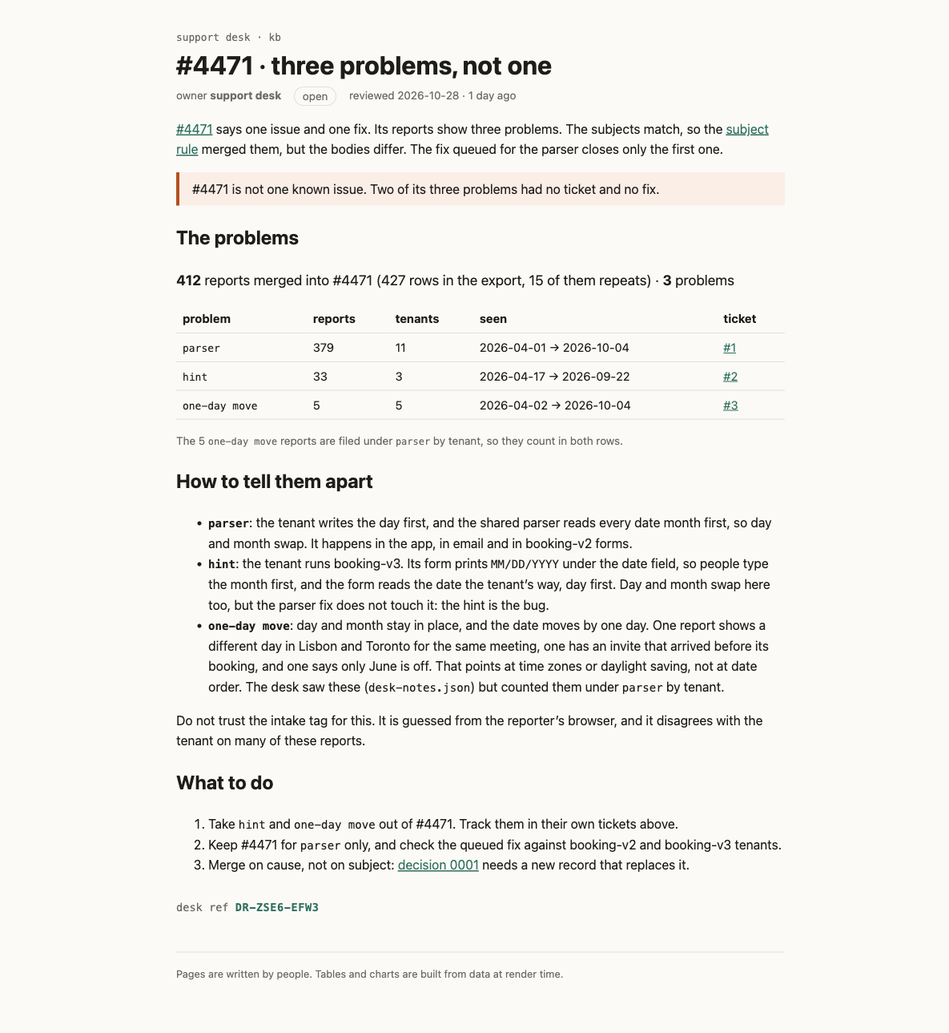
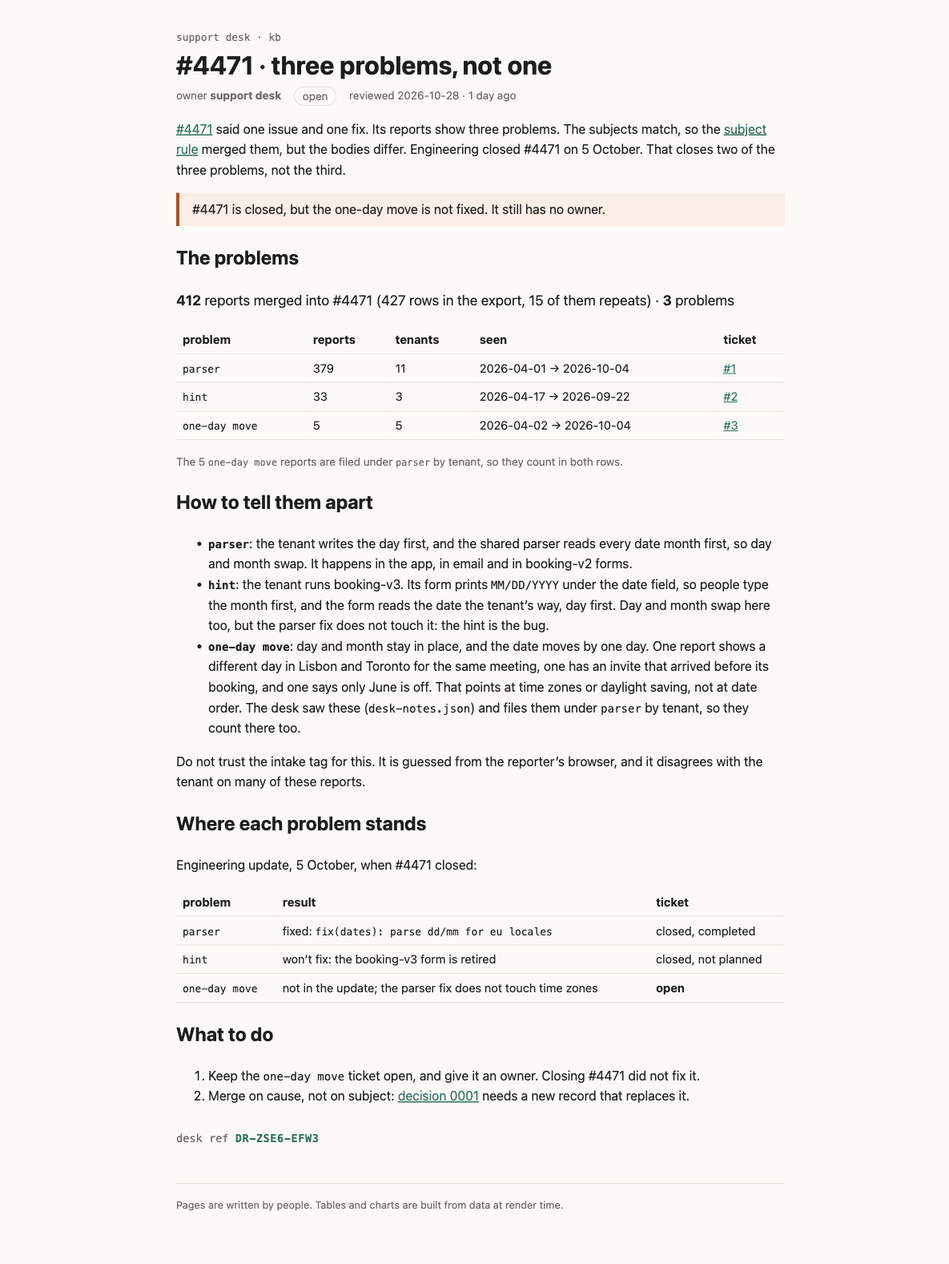
Record the desk update: parser fixed, hint won't fix, one-day move still open

Changed region(s): [[0.1873, 0.031, 0.8118, 0.8999], [0.1873, 0.931, 0.5932, 0.962]]

diff --git a/rendered/problems.html b/rendered/problems.html
@@ -6,11 +6,11 @@
 		<link href="../../../_app/immutable/chunks/B2Ul7l_u.js" rel="modulepreload">
 		<link href="../../../_app/immutable/chunks/BCPXOG7W.js" rel="modulepreload">
 		<link href="../../../_app/immutable/chunks/Dh1V97Jm.js" rel="modulepreload">
-		<link href="../../../_app/immutable/entry/app.pCj8AxUr.js" rel="modulepreload">
+		<link href="../../../_app/immutable/entry/app.Cf97Lyos.js" rel="modulepreload">
 		<link href="../../../_app/immutable/nodes/0.C9KfiiPz.js" rel="modulepreload">
 		<link href="../../../_app/immutable/chunks/DK3Fl9T5.js" rel="modulepreload">
-		<link href="../../../_app/immutable/nodes/5.DjZ_4Lt1.js" rel="modulepreload">
-		<link href="../../../_app/immutable/chunks/Dh-4Soy4.js" rel="modulepreload">
+		<link href="../../../_app/immutable/nodes/5.BNCA9inu.js" rel="modulepreload">
+		<link href="../../../_app/immutable/chunks/CG9Gs7nx.js" rel="modulepreload">
 		<link href="../../../_app/immutable/chunks/DZiXShyB.js" rel="modulepreload">
 		<link href="../../../_app/immutable/chunks/CVBzP17p.js" rel="modulepreload">
 		<link href="../../../_app/immutable/chunks/BIy4WKJS.js" rel="modulepreload">
@@ -18,30 +18,30 @@
 		<link href="../../../_app/immutable/assets/runbook.COyw0cbZ.css" rel="stylesheet">
 		<link href="../../../_app/immutable/assets/Callout.AbLv9dM_.css" rel="stylesheet">
 		<link href="../../../_app/immutable/assets/_page.l10rmzXo.css" rel="stylesheet"></head>
-  <body><div style="display: contents"><!--[--><!--[--><!--[0--><!--[--><!--[--><!--[-1--><!--[--><div class="kb svelte-e2jw2j"><header><a class="crumb svelte-e2jw2j" href="/kb">support desk · kb</a> <h1 class="svelte-e2jw2j">#4471 · three problems, not one</h1> <p class="meta svelte-e2jw2j"><span>owner <b>support desk</b></span> <span class="status open svelte-e2jw2j">open</span> <span class="svelte-e2jw2j">reviewed 2026-10-28 · 1 day ago</span></p></header> <!--[-1--><!--]--> <main><p><a href="/kb/incidents/4471">#4471</a> says one issue and one fix. Its reports show three problems. The
+  <body><div style="display: contents"><!--[--><!--[--><!--[0--><!--[--><!--[--><!--[-1--><!--[--><div class="kb svelte-e2jw2j"><header><a class="crumb svelte-e2jw2j" href="/kb">support desk · kb</a> <h1 class="svelte-e2jw2j">#4471 · three problems, not one</h1> <p class="meta svelte-e2jw2j"><span>owner <b>support desk</b></span> <span class="status open svelte-e2jw2j">open</span> <span class="svelte-e2jw2j">reviewed 2026-10-28 · 1 day ago</span></p></header> <!--[-1--><!--]--> <main><p><a href="/kb/incidents/4471">#4471</a> said one issue and one fix. Its reports show three problems. The
 subjects match, so the <a href="/kb/triage/dedupe">subject rule</a> merged them, but the bodies differ.
-The fix queued for the parser closes only the first one.</p> <aside class="warn svelte-17bri61"><!---->#4471 is not one known issue. Two of its three problems had no ticket and no fix.<!----></aside><!----> <h2>The problems</h2> <p class="sum svelte-1op6c6"><strong>412</strong> reports merged into #4471 (427 rows in the export, 15 of them repeats) · <strong>3</strong> problems</p> <table><thead><tr><th>problem</th><th>reports</th><th>tenants</th><th>seen</th><th>ticket</th></tr></thead><tbody><!--[--><tr><td><code>parser</code></td><td>379</td><td>11</td><td>2026-04-01 → 2026-10-04</td><td><!--[0--><a href="https://github.com/hd4ng/support-kb-4471/issues/1">#1</a><!--]--></td></tr><tr><td><code>hint</code></td><td>33</td><td>3</td><td>2026-04-17 → 2026-09-22</td><td><!--[0--><a href="https://github.com/hd4ng/support-kb-4471/issues/2">#2</a><!--]--></td></tr><tr><td><code>one-day move</code></td><td>5</td><td>5</td><td>2026-04-02 → 2026-10-04</td><td><!--[0--><a href="https://github.com/hd4ng/support-kb-4471/issues/3">#3</a><!--]--></td></tr><!--]--></tbody></table> <!--[--><!--[--><!--[-1--><!--]--><!--]--><!--[--><!--]--><!--[--><!--[0--><p class="note svelte-1op6c6">The 5 <code>one-day move</code> reports are filed under <code>parser</code> by tenant, so they count in both rows.</p><!--]--><!--]--><!--]--><!----> <h2>How to tell them apart</h2> <ul><li><strong><code>parser</code></strong>: the tenant writes the day first, and the shared parser reads every date month
+Engineering closed #4471 on 5 October. That closes two of the three problems, not the third.</p> <aside class="warn svelte-17bri61"><!---->#4471 is closed, but the one-day move is not fixed. It still has no owner.<!----></aside><!----> <h2>The problems</h2> <p class="sum svelte-1op6c6"><strong>412</strong> reports merged into #4471 (427 rows in the export, 15 of them repeats) · <strong>3</strong> problems</p> <table><thead><tr><th>problem</th><th>reports</th><th>tenants</th><th>seen</th><th>ticket</th></tr></thead><tbody><!--[--><tr><td><code>parser</code></td><td>379</td><td>11</td><td>2026-04-01 → 2026-10-04</td><td><!--[0--><a href="https://github.com/hd4ng/support-kb-4471/issues/1">#1</a><!--]--></td></tr><tr><td><code>hint</code></td><td>33</td><td>3</td><td>2026-04-17 → 2026-09-22</td><td><!--[0--><a href="https://github.com/hd4ng/support-kb-4471/issues/2">#2</a><!--]--></td></tr><tr><td><code>one-day move</code></td><td>5</td><td>5</td><td>2026-04-02 → 2026-10-04</td><td><!--[0--><a href="https://github.com/hd4ng/support-kb-4471/issues/3">#3</a><!--]--></td></tr><!--]--></tbody></table> <!--[--><!--[--><!--[-1--><!--]--><!--]--><!--[--><!--]--><!--[--><!--[0--><p class="note svelte-1op6c6">The 5 <code>one-day move</code> reports are filed under <code>parser</code> by tenant, so they count in both rows.</p><!--]--><!--]--><!--]--><!----> <h2>How to tell them apart</h2> <ul><li><strong><code>parser</code></strong>: the tenant writes the day first, and the shared parser reads every date month
 first, so day and month swap. It happens in the app, in email and in booking-v2 forms.</li> <li><strong><code>hint</code></strong>: the tenant runs booking-v3. Its form prints <code>MM/DD/YYYY</code> under the date field, so
 people type the month first, and the form reads the date the tenant’s way, day first. Day and
 month swap here too, but the parser fix does not touch it: the hint is the bug.</li> <li><strong><code>one-day move</code></strong>: day and month stay in place, and the date moves by one day. One report
 shows a different day in Lisbon and Toronto for the same meeting, one has an invite that
 arrived before its booking, and one says only June is off. That points at time zones or
 daylight saving, not at date order. The desk saw these
-(<code>desk-notes.json</code>) but counted them under <code>parser</code> by tenant.</li></ul> <p>Do not trust the intake tag for this. It is guessed from the reporter’s browser, and
-it disagrees with the tenant on many of these reports.</p> <h2>What to do</h2> <ol><li>Take <code>hint</code> and <code>one-day move</code> out of #4471. Track them in their own tickets above.</li> <li>Keep #4471 for <code>parser</code> only, and check the queued fix against booking-v2 and booking-v3 tenants.</li> <li>Merge on cause, not on subject: <a href="/kb/decisions/0001-dedupe-by-subject">decision 0001</a> needs a new record that replaces it.</li></ol> <!--[0--><p class="stamp svelte-1280m42">desk ref <b class="svelte-1280m42">DR-ZSE6-EFW3</b></p><!--]--><!----><!----></main> <footer class="svelte-e2jw2j">Pages are written by people. Tables and charts are built from data at render time.</footer></div><!--]--><!--]--><!--]--><!----><!--]--><!--]--><!--]--><!----> <!--[-1--><!--]--><!--]-->
+(<code>desk-notes.json</code>) and files them under <code>parser</code> by tenant, so they count there too.</li></ul> <p>Do not trust the intake tag for this. It is guessed from the reporter’s browser, and
+it disagrees with the tenant on many of these reports.</p> <h2>Where each problem stands</h2> <p>Engineering update, 5 October, when #4471 closed:</p> <table><thead><tr><th>problem</th><th>result</th><th>ticket</th></tr></thead><tbody><tr><td><code>parser</code></td><td>fixed: <code>fix(dates): parse dd/mm for eu locales</code></td><td>closed, completed</td></tr><tr><td><code>hint</code></td><td>won’t fix: the booking-v3 form is retired</td><td>closed, not planned</td></tr><tr><td><code>one-day move</code></td><td>not in the update; the parser fix does not touch time zones</td><td><strong>open</strong></td></tr></tbody></table> <h2>What to do</h2> <ol><li>Keep the <code>one-day move</code> ticket open, and give it an owner. Closing #4471 did not fix it.</li> <li>Merge on cause, not on subject: <a href="/kb/decisions/0001-dedupe-by-subject">decision 0001</a> needs a new record that replaces it.</li></ol> <!--[0--><p class="stamp svelte-1280m42">desk ref <b class="svelte-1280m42">DR-ZSE6-EFW3</b></p><!--]--><!----><!----></main> <footer class="svelte-e2jw2j">Pages are written by people. Tables and charts are built from data at render time.</footer></div><!--]--><!--]--><!--]--><!----><!--]--><!--]--><!--]--><!----> <!--[-1--><!--]--><!--]-->
 			
 			<script>
 				{
-					__sveltekit_1bzk7jq = {
+					__sveltekit_c6fpbu = {
 						base: new URL("../../..", location).pathname.slice(0, -1),
-						version: "1793239045053"
+						version: "1793239122857"
 					};
 
 					const element = document.currentScript.parentElement;
 
 					import("../../../_app/immutable/entry/start.CH5w6lId.js").then(async (kit) => {
-						kit.init(__sveltekit_1bzk7jq);
-						const app = await import("../../../_app/immutable/entry/app.pCj8AxUr.js");
+						kit.init(__sveltekit_c6fpbu);
+						const app = await import("../../../_app/immutable/entry/app.Cf97Lyos.js");
 						kit.start(app, element, {
 							node_ids: [0, 5],
 							data: [null,null],

diff --git a/rendered/site/kb/incidents/4471/problems.html b/rendered/site/kb/incidents/4471/problems.html
@@ -6,11 +6,11 @@
 		<link href="../../../_app/immutable/chunks/B2Ul7l_u.js" rel="modulepreload">
 		<link href="../../../_app/immutable/chunks/BCPXOG7W.js" rel="modulepreload">
 		<link href="../../../_app/immutable/chunks/Dh1V97Jm.js" rel="modulepreload">
-		<link href="../../../_app/immutable/entry/app.pCj8AxUr.js" rel="modulepreload">
+		<link href="../../../_app/immutable/entry/app.Cf97Lyos.js" rel="modulepreload">
 		<link href="../../../_app/immutable/nodes/0.C9KfiiPz.js" rel="modulepreload">
 		<link href="../../../_app/immutable/chunks/DK3Fl9T5.js" rel="modulepreload">
-		<link href="../../../_app/immutable/nodes/5.DjZ_4Lt1.js" rel="modulepreload">
-		<link href="../../../_app/immutable/chunks/Dh-4Soy4.js" rel="modulepreload">
+		<link href="../../../_app/immutable/nodes/5.BNCA9inu.js" rel="modulepreload">
+		<link href="../../../_app/immutable/chunks/CG9Gs7nx.js" rel="modulepreload">
 		<link href="../../../_app/immutable/chunks/DZiXShyB.js" rel="modulepreload">
 		<link href="../../../_app/immutable/chunks/CVBzP17p.js" rel="modulepreload">
 		<link href="../../../_app/immutable/chunks/BIy4WKJS.js" rel="modulepreload">
@@ -18,30 +18,30 @@
 		<link href="../../../_app/immutable/assets/runbook.COyw0cbZ.css" rel="stylesheet">
 		<link href="../../../_app/immutable/assets/Callout.AbLv9dM_.css" rel="stylesheet">
 		<link href="../../../_app/immutable/assets/_page.l10rmzXo.css" rel="stylesheet"></head>
-  <body><div style="display: contents"><!--[--><!--[--><!--[0--><!--[--><!--[--><!--[-1--><!--[--><div class="kb svelte-e2jw2j"><header><a class="crumb svelte-e2jw2j" href="/kb">support desk · kb</a> <h1 class="svelte-e2jw2j">#4471 · three problems, not one</h1> <p class="meta svelte-e2jw2j"><span>owner <b>support desk</b></span> <span class="status open svelte-e2jw2j">open</span> <span class="svelte-e2jw2j">reviewed 2026-10-28 · 1 day ago</span></p></header> <!--[-1--><!--]--> <main><p><a href="/kb/incidents/4471">#4471</a> says one issue and one fix. Its reports show three problems. The
+  <body><div style="display: contents"><!--[--><!--[--><!--[0--><!--[--><!--[--><!--[-1--><!--[--><div class="kb svelte-e2jw2j"><header><a class="crumb svelte-e2jw2j" href="/kb">support desk · kb</a> <h1 class="svelte-e2jw2j">#4471 · three problems, not one</h1> <p class="meta svelte-e2jw2j"><span>owner <b>support desk</b></span> <span class="status open svelte-e2jw2j">open</span> <span class="svelte-e2jw2j">reviewed 2026-10-28 · 1 day ago</span></p></header> <!--[-1--><!--]--> <main><p><a href="/kb/incidents/4471">#4471</a> said one issue and one fix. Its reports show three problems. The
 subjects match, so the <a href="/kb/triage/dedupe">subject rule</a> merged them, but the bodies differ.
-The fix queued for the parser closes only the first one.</p> <aside class="warn svelte-17bri61"><!---->#4471 is not one known issue. Two of its three problems had no ticket and no fix.<!----></aside><!----> <h2>The problems</h2> <p class="sum svelte-1op6c6"><strong>412</strong> reports merged into #4471 (427 rows in the export, 15 of them repeats) · <strong>3</strong> problems</p> <table><thead><tr><th>problem</th><th>reports</th><th>tenants</th><th>seen</th><th>ticket</th></tr></thead><tbody><!--[--><tr><td><code>parser</code></td><td>379</td><td>11</td><td>2026-04-01 → 2026-10-04</td><td><!--[0--><a href="https://github.com/hd4ng/support-kb-4471/issues/1">#1</a><!--]--></td></tr><tr><td><code>hint</code></td><td>33</td><td>3</td><td>2026-04-17 → 2026-09-22</td><td><!--[0--><a href="https://github.com/hd4ng/support-kb-4471/issues/2">#2</a><!--]--></td></tr><tr><td><code>one-day move</code></td><td>5</td><td>5</td><td>2026-04-02 → 2026-10-04</td><td><!--[0--><a href="https://github.com/hd4ng/support-kb-4471/issues/3">#3</a><!--]--></td></tr><!--]--></tbody></table> <!--[--><!--[--><!--[-1--><!--]--><!--]--><!--[--><!--]--><!--[--><!--[0--><p class="note svelte-1op6c6">The 5 <code>one-day move</code> reports are filed under <code>parser</code> by tenant, so they count in both rows.</p><!--]--><!--]--><!--]--><!----> <h2>How to tell them apart</h2> <ul><li><strong><code>parser</code></strong>: the tenant writes the day first, and the shared parser reads every date month
+Engineering closed #4471 on 5 October. That closes two of the three problems, not the third.</p> <aside class="warn svelte-17bri61"><!---->#4471 is closed, but the one-day move is not fixed. It still has no owner.<!----></aside><!----> <h2>The problems</h2> <p class="sum svelte-1op6c6"><strong>412</strong> reports merged into #4471 (427 rows in the export, 15 of them repeats) · <strong>3</strong> problems</p> <table><thead><tr><th>problem</th><th>reports</th><th>tenants</th><th>seen</th><th>ticket</th></tr></thead><tbody><!--[--><tr><td><code>parser</code></td><td>379</td><td>11</td><td>2026-04-01 → 2026-10-04</td><td><!--[0--><a href="https://github.com/hd4ng/support-kb-4471/issues/1">#1</a><!--]--></td></tr><tr><td><code>hint</code></td><td>33</td><td>3</td><td>2026-04-17 → 2026-09-22</td><td><!--[0--><a href="https://github.com/hd4ng/support-kb-4471/issues/2">#2</a><!--]--></td></tr><tr><td><code>one-day move</code></td><td>5</td><td>5</td><td>2026-04-02 → 2026-10-04</td><td><!--[0--><a href="https://github.com/hd4ng/support-kb-4471/issues/3">#3</a><!--]--></td></tr><!--]--></tbody></table> <!--[--><!--[--><!--[-1--><!--]--><!--]--><!--[--><!--]--><!--[--><!--[0--><p class="note svelte-1op6c6">The 5 <code>one-day move</code> reports are filed under <code>parser</code> by tenant, so they count in both rows.</p><!--]--><!--]--><!--]--><!----> <h2>How to tell them apart</h2> <ul><li><strong><code>parser</code></strong>: the tenant writes the day first, and the shared parser reads every date month
 first, so day and month swap. It happens in the app, in email and in booking-v2 forms.</li> <li><strong><code>hint</code></strong>: the tenant runs booking-v3. Its form prints <code>MM/DD/YYYY</code> under the date field, so
 people type the month first, and the form reads the date the tenant’s way, day first. Day and
 month swap here too, but the parser fix does not touch it: the hint is the bug.</li> <li><strong><code>one-day move</code></strong>: day and month stay in place, and the date moves by one day. One report
 shows a different day in Lisbon and Toronto for the same meeting, one has an invite that
 arrived before its booking, and one says only June is off. That points at time zones or
 daylight saving, not at date order. The desk saw these
-(<code>desk-notes.json</code>) but counted them under <code>parser</code> by tenant.</li></ul> <p>Do not trust the intake tag for this. It is guessed from the reporter’s browser, and
-it disagrees with the tenant on many of these reports.</p> <h2>What to do</h2> <ol><li>Take <code>hint</code> and <code>one-day move</code> out of #4471. Track them in their own tickets above.</li> <li>Keep #4471 for <code>parser</code> only, and check the queued fix against booking-v2 and booking-v3 tenants.</li> <li>Merge on cause, not on subject: <a href="/kb/decisions/0001-dedupe-by-subject">decision 0001</a> needs a new record that replaces it.</li></ol> <!--[0--><p class="stamp svelte-1280m42">desk ref <b class="svelte-1280m42">DR-ZSE6-EFW3</b></p><!--]--><!----><!----></main> <footer class="svelte-e2jw2j">Pages are written by people. Tables and charts are built from data at render time.</footer></div><!--]--><!--]--><!--]--><!----><!--]--><!--]--><!--]--><!----> <!--[-1--><!--]--><!--]-->
+(<code>desk-notes.json</code>) and files them under <code>parser</code> by tenant, so they count there too.</li></ul> <p>Do not trust the intake tag for this. It is guessed from the reporter’s browser, and
+it disagrees with the tenant on many of these reports.</p> <h2>Where each problem stands</h2> <p>Engineering update, 5 October, when #4471 closed:</p> <table><thead><tr><th>problem</th><th>result</th><th>ticket</th></tr></thead><tbody><tr><td><code>parser</code></td><td>fixed: <code>fix(dates): parse dd/mm for eu locales</code></td><td>closed, completed</td></tr><tr><td><code>hint</code></td><td>won’t fix: the booking-v3 form is retired</td><td>closed, not planned</td></tr><tr><td><code>one-day move</code></td><td>not in the update; the parser fix does not touch time zones</td><td><strong>open</strong></td></tr></tbody></table> <h2>What to do</h2> <ol><li>Keep the <code>one-day move</code> ticket open, and give it an owner. Closing #4471 did not fix it.</li> <li>Merge on cause, not on subject: <a href="/kb/decisions/0001-dedupe-by-subject">decision 0001</a> needs a new record that replaces it.</li></ol> <!--[0--><p class="stamp svelte-1280m42">desk ref <b class="svelte-1280m42">DR-ZSE6-EFW3</b></p><!--]--><!----><!----></main> <footer class="svelte-e2jw2j">Pages are written by people. Tables and charts are built from data at render time.</footer></div><!--]--><!--]--><!--]--><!----><!--]--><!--]--><!--]--><!----> <!--[-1--><!--]--><!--]-->
 			
 			<script>
 				{
-					__sveltekit_1bzk7jq = {
+					__sveltekit_c6fpbu = {
 						base: new URL("../../..", location).pathname.slice(0, -1),
-						version: "1793239045053"
+						version: "1793239122857"
 					};
 
 					const element = document.currentScript.parentElement;
 
 					import("../../../_app/immutable/entry/start.CH5w6lId.js").then(async (kit) => {
-						kit.init(__sveltekit_1bzk7jq);
-						const app = await import("../../../_app/immutable/entry/app.pCj8AxUr.js");
+						kit.init(__sveltekit_c6fpbu);
+						const app = await import("../../../_app/immutable/entry/app.Cf97Lyos.js");
 						kit.start(app, element, {
 							node_ids: [0, 5],
 							data: [null,null],

diff --git a/rendered/site/_app/immutable/chunks/CG9Gs7nx.js b/rendered/site/_app/immutable/chunks/CG9Gs7nx.js
@@ -1,0 +1,11 @@
+import{t as e}from"./DK3Fl9T5.js";import{E as t,F as n,H as r,I as i,K as a,L as o,N as s,O as c,R as l,S as u,T as d,U as f,W as p,_ as m,c as h,h as g,k as _,n as v,q as y,r as b,t as x,w as S}from"./BCPXOG7W.js";import{t as C}from"./DZiXShyB.js";import{n as w,t as T}from"./CVBzP17p.js";import{i as E,l as D,r as O,t as k}from"./BIy4WKJS.js";var A=[`parser`,`hint`,`one-day move`,`unplaced`];function j(e,t,n){let r=E(e,t)??`unplaced`;return n.includes(e.id)?[r,`one-day move`]:[r]}function M(e,t,n,r){let i=D(e).filter(e=>e.mergedInto===t);return{merged:i,groups:A.map(e=>{let t=i.filter(t=>j(t,n(t),r).includes(e)),a=t.map(e=>e.receivedAt.slice(0,10)).sort();return{problem:e,reports:t,alsoIn:[...new Set(t.flatMap(e=>j(e,n(e),r)))].filter(t=>t!==e),tenants:new Set(t.map(e=>e.tenant)).size,firstSeen:a[0],lastSeen:a[a.length-1]}}).filter(e=>e.reports.length>0)}}var N=t(`<a> </a>`),P=t(`<tr><td><code> </code></td><td> </td><td> </td><td> </td><td><!></td></tr>`),F=t(`<p class="note svelte-1op6c6"> <code> </code> reports are filed under <code> </code> by tenant, so they count in both rows.</p>`),I=t(`<p class="sum svelte-1op6c6"><strong> </strong> <strong> </strong> problems</p> <table><thead><tr><th>problem</th><th>reports</th><th>tenants</th><th>seen</th><th>ticket</th></tr></thead><tbody></tbody></table> <!>`,1);function L(e,t){p(t,!0);let b=v(t,`tickets`,19,()=>({})),x=r(()=>M(w,t.ticket,O,T.oneDayMove)),C=w.length,E=e=>e.replace(/.*\/issues\//,`#`);var D=I(),k=i(D),A=n(k),j=o(A,!0),L=l(A),R=l(L),z=o(R,!0);a(),y(k);var B=l(k,2),V=l(n(B));g(V,21,()=>_(x).groups,e=>e.problem,(e,t)=>{var r=P(),i=n(r),a=n(i),d=o(a,!0);y(i);var f=l(i),p=o(f,!0),g=l(f),v=o(g,!0),x=l(g),C=o(x),w=l(x),T=n(w),D=e=>{var n=N(),r=o(n,!0);s(e=>{h(n,`href`,b()[_(t).problem]),u(r,e)},[()=>E(b()[_(t).problem])]),S(e,n)},O=e=>{var t=c(`none yet`);S(e,t)};m(T,e=>{b()[_(t).problem]?e(D):e(O,-1)}),y(w),y(r),s(()=>{u(d,_(t).problem),u(p,_(t).reports.length),u(v,_(t).tenants),u(C,`${_(t).firstSeen??``} → ${_(t).lastSeen??``}`)}),S(e,r)}),y(V),y(B);var H=l(B,2);g(H,17,()=>_(x).groups,e=>e.problem,(e,t)=>{var c=d(),f=i(c);g(f,16,()=>_(t).alsoIn,e=>e,(e,c)=>{let f=r(()=>_(t).reports.filter(e=>_(x).groups.find(e=>e.problem===c)?.reports.includes(e)).length);var p=d(),h=i(p),g=e=>{var r=F(),i=n(r),d=l(i),p=o(d,!0),m=l(d,2),h=o(m,!0);a(),y(r),s(()=>{u(i,`The ${_(f)??``} `),u(p,_(t).problem),u(h,c)}),S(e,r)};m(h,e=>{_(t).problem===`one-day move`&&e(g)}),S(e,p)}),S(e,c)}),s(()=>{u(j,_(x).merged.length),u(L,` reports merged into #${t.ticket??``} (${C??``} rows in the export, ${C-_(x).merged.length} of them repeats) · `),u(z,_(x).groups.length)}),S(e,D),f()}var R=`0123456789ABCDEFGHJKMNPQRSTVWXYZ`;function z(e,t){let n=t>>>0;for(let t=0;t<e.length;t++)n^=e.charCodeAt(t),n=Math.imul(n,16777619)>>>0;return n}function B(e){let t=e.trim(),n=z(t,2166136261),r=z(t,2654435769),i=BigInt(n)<<8n|BigInt(r&255),a=``;for(let e=0;e<8;e++)a=R[Number(i&31n)]+a,i>>=5n;return`DR-${a.slice(0,4)}-${a.slice(4)}`}var V=t(`<p class="stamp svelte-1280m42">desk ref <b class="svelte-1280m42"> </b></p>`),H=t(`<p class="stamp missing svelte-1280m42">no desk ref: this page isn't signed (no <code>signature</code> in its frontmatter)</p>`);function U(e,t){p(t,!0);let a=r(()=>t.signature?B(t.signature):null);var c=d(),h=i(c),g=e=>{var t=V(),r=l(n(t)),i=o(r,!0);y(t),s(()=>u(i,_(a))),S(e,t)},v=e=>{var t=H();S(e,t)};m(h,e=>{_(a)?e(g):e(v,-1)}),S(e,c),f()}var W=e({default:()=>$,metadata:()=>G}),G={layout:`runbook`,title:`#4471 · three problems, not one`,owner:`support desk`,status:`open`,reviewed:`2026-10-28T00:00:00.000Z`,signature:`Huy Dang`},{layout:K,title:q,owner:J,status:Y,reviewed:X,signature:Z}=G,Q=t(`<p><a href="/kb/incidents/4471">#4471</a> said one issue and one fix. Its reports show three problems. The
+subjects match, so the <a href="/kb/triage/dedupe">subject rule</a> merged them, but the bodies differ.
+Engineering closed #4471 on 5 October. That closes two of the three problems, not the third.</p> <!> <h2>The problems</h2> <!> <h2>How to tell them apart</h2> <ul><li><strong><code>parser</code></strong>: the tenant writes the day first, and the shared parser reads every date month
+first, so day and month swap. It happens in the app, in email and in booking-v2 forms.</li> <li><strong><code>hint</code></strong>: the tenant runs booking-v3. Its form prints <code>MM/DD/YYYY</code> under the date field, so
+people type the month first, and the form reads the date the tenant’s way, day first. Day and
+month swap here too, but the parser fix does not touch it: the hint is the bug.</li> <li><strong><code>one-day move</code></strong>: day and month stay in place, and the date moves by one day. One report
+shows a different day in Lisbon and Toronto for the same meeting, one has an invite that
+arrived before its booking, and one says only June is off. That points at time zones or
+daylight saving, not at date order. The desk saw these
+(<code>desk-notes.json</code>) and files them under <code>parser</code> by tenant, so they count there too.</li></ul> <p>Do not trust the intake tag for this. It is guessed from the reporter’s browser, and
+it disagrees with the tenant on many of these reports.</p> <h2>Where each problem stands</h2> <p>Engineering update, 5 October, when #4471 closed:</p> <table><thead><tr><th>problem</th><th>result</th><th>ticket</th></tr></thead><tbody><tr><td><code>parser</code></td><td>fixed: <code>fix(dates): parse dd/mm for eu locales</code></td><td>closed, completed</td></tr><tr><td><code>hint</code></td><td>won’t fix: the booking-v3 form is retired</td><td>closed, not planned</td></tr><tr><td><code>one-day move</code></td><td>not in the update; the parser fix does not touch time zones</td><td><strong>open</strong></td></tr></tbody></table> <h2>What to do</h2> <ol><li>Keep the <code>one-day move</code> ticket open, and give it an owner. Closing #4471 did not fix it.</li> <li>Merge on cause, not on subject: <a href="/kb/decisions/0001-dedupe-by-subject">decision 0001</a> needs a new record that replaces it.</li></ol> <!>`,1);function $(e,t){let n=x(t,[`children`,`$$slots`,`$$events`,`$$legacy`]),r={parser:`https://github.com/hd4ng/support-kb-4471/issues/1`,hint:`https://github.com/hd4ng/support-kb-4471/issues/2`,"one-day move":`https://github.com/hd4ng/support-kb-4471/issues/3`};C(e,b(()=>n,()=>G,{children:(e,t)=>{var n=Q(),o=l(i(n),2);k(o,{kind:`warn`,children:(e,t)=>{a();var n=c(`#4471 is closed, but the one-day move is not fixed. It still has no owner.`);S(e,n)},$$slots:{default:!0}});var s=l(o,4);L(s,{ticket:4471,get tickets(){return r}}),U(l(s,18),{get signature(){return Z}}),S(e,n)},$$slots:{default:!0}}))}export{$ as n,W as t};

diff --git a/rendered/site/_app/immutable/nodes/2.CTzvtF1L.js b/rendered/site/_app/immutable/nodes/2.CTzvtF1L.js
@@ -1,0 +1,2 @@
+import{E as e,F as t,I as n,K as r,L as i,N as a,R as o,S as s,U as c,W as l,c as u,d,h as f,i as p,k as m,q as h,r as g,t as _,w as v}from"../chunks/BCPXOG7W.js";import{n as y,r as b,t as x}from"../chunks/DZiXShyB.js";import{t as S}from"../chunks/DdxO9zAB.js";import{t as C}from"../chunks/DGwczjly.js";import{t as w}from"../chunks/CG9Gs7nx.js";import{t as T}from"../chunks/C3NdmfwS.js";var E=e(`<tr><td><a> </a></td><td> </td><td> </td><td> </td></tr>`),D=e(`<table><thead><tr><th>page</th><th>owner</th><th>status</th><th>reviewed</th></tr></thead><tbody></tbody></table>`);function O(e,n){l(n,!1);let r=Object.entries(Object.assign({"/src/routes/kb/decisions/0001-dedupe-by-subject/+page.svx":S,"/src/routes/kb/incidents/4471/+page.svx":C,"/src/routes/kb/incidents/4471/problems/+page.svx":w,"/src/routes/kb/triage/dedupe/+page.svx":T})).map(([e,t])=>({href:e.replace(`/src/routes`,``).replace(`/+page.svx`,``),...t.metadata})).sort((e,t)=>e.href.localeCompare(t.href));p();var g=D(),_=o(t(g));f(_,5,()=>r,e=>e.href,(e,n)=>{var r=E(),c=t(r),l=t(c),f=i(l,!0);h(c);var p=o(c),g=i(p,!0),_=o(p),x=i(_,!0),S=o(_);let C;var w=i(S,!0);h(r),a((e,t)=>{u(l,`href`,m(n).href),s(f,m(n).title),s(g,m(n).owner),s(x,m(n).status),C=d(S,1,`svelte-tbc1ha`,null,C,{stale:e}),s(w,t)},[()=>y(m(n).reviewed)>180,()=>b(m(n).reviewed)]),v(e,r)}),h(_),h(g),v(e,g),c()}var k={layout:`runbook`,title:`Support knowledge base`,owner:`support desk`,status:`living`,reviewed:`2026-09-28T00:00:00.000Z`},{layout:A,title:j,owner:M,status:N,reviewed:P}=k,F=e(`<p>What the support desk knows, kept next to the code that knows it. One desk, every product: <code>sched-prod</code> (calendar invites for about 300k people) and the rest. When something breaks, the reports land here first.</p> <p>Start with <a href="/kb/triage/dedupe">triage</a> if you are new on the desk.</p> <h2>Pages</h2> <!> <h2>Writing a page</h2> <p>Keep the words here and the logic in <code>src/lib</code>. A number that can be computed should be
+computed by a component, not typed into a paragraph.</p>`,1);function I(e,t){let i=_(t,[`children`,`$$slots`,`$$events`,`$$legacy`]);x(e,g(()=>i,()=>k,{children:(e,t)=>{var i=F();O(o(n(i),6),{}),r(4),v(e,i)},$$slots:{default:!0}}))}export{I as component};

diff --git a/rendered/site/kb.html b/rendered/site/kb.html
@@ -6,16 +6,16 @@
 		<link href="./_app/immutable/chunks/B2Ul7l_u.js" rel="modulepreload">
 		<link href="./_app/immutable/chunks/BCPXOG7W.js" rel="modulepreload">
 		<link href="./_app/immutable/chunks/Dh1V97Jm.js" rel="modulepreload">
-		<link href="./_app/immutable/entry/app.pCj8AxUr.js" rel="modulepreload">
+		<link href="./_app/immutable/entry/app.Cf97Lyos.js" rel="modulepreload">
 		<link href="./_app/immutable/nodes/0.C9KfiiPz.js" rel="modulepreload">
 		<link href="./_app/immutable/chunks/DK3Fl9T5.js" rel="modulepreload">
-		<link href="./_app/immutable/nodes/2.DtAtgmBb.js" rel="modulepreload">
+		<link href="./_app/immutable/nodes/2.CTzvtF1L.js" rel="modulepreload">
 		<link href="./_app/immutable/chunks/DZiXShyB.js" rel="modulepreload">
 		<link href="./_app/immutable/chunks/DdxO9zAB.js" rel="modulepreload">
 		<link href="./_app/immutable/chunks/DGwczjly.js" rel="modulepreload">
 		<link href="./_app/immutable/chunks/CVBzP17p.js" rel="modulepreload">
 		<link href="./_app/immutable/chunks/BIy4WKJS.js" rel="modulepreload">
-		<link href="./_app/immutable/chunks/Dh-4Soy4.js" rel="modulepreload">
+		<link href="./_app/immutable/chunks/CG9Gs7nx.js" rel="modulepreload">
 		<link href="./_app/immutable/chunks/C3NdmfwS.js" rel="modulepreload">
 		<!--e2jw2j--><!----><title>Support knowledge base · support kb</title>
 		<link href="./_app/immutable/assets/runbook.COyw0cbZ.css" rel="stylesheet">
@@ -29,16 +29,16 @@ computed by a component, not typed into a paragraph.</p><!----></main> <footer c
 			
 			<script>
 				{
-					__sveltekit_1bzk7jq = {
+					__sveltekit_c6fpbu = {
 						base: new URL(".", location).pathname.slice(0, -1),
-						version: "1793239045053"
+						version: "1793239122857"
 					};
 
 					const element = document.currentScript.parentElement;
 
 					import("./_app/immutable/entry/start.CH5w6lId.js").then(async (kit) => {
-						kit.init(__sveltekit_1bzk7jq);
-						const app = await import("./_app/immutable/entry/app.pCj8AxUr.js");
+						kit.init(__sveltekit_c6fpbu);
+						const app = await import("./_app/immutable/entry/app.Cf97Lyos.js");
 						kit.start(app, element, {
 							node_ids: [0, 2],
 							data: [null,null],

diff --git a/rendered/site/_app/immutable/entry/app.Cf97Lyos.js b/rendered/site/_app/immutable/entry/app.Cf97Lyos.js
@@ -1,0 +1,2 @@
+const __vite__mapDeps=(i,m=__vite__mapDeps,d=(m.f||(m.f=["../nodes/0.C9KfiiPz.js","../chunks/DK3Fl9T5.js","../chunks/BCPXOG7W.js","../nodes/1.mOwa9YdW.js","../chunks/Dh1V97Jm.js","./payload.DSmR2FwN.js","../nodes/2.CTzvtF1L.js","../chunks/DZiXShyB.js","../assets/runbook.COyw0cbZ.css","../chunks/DdxO9zAB.js","../chunks/DGwczjly.js","../chunks/CVBzP17p.js","../chunks/BIy4WKJS.js","../assets/Callout.AbLv9dM_.css","../assets/_page.D56XP2ro.css","../chunks/CG9Gs7nx.js","../assets/_page.l10rmzXo.css","../chunks/C3NdmfwS.js","../assets/_page.DO6Yid7X.css","../assets/2.Bt0MwIZg.css","../nodes/3.CwVaGuXT.js","../nodes/4.BSByaEO3.js","../nodes/5.BNCA9inu.js","../nodes/6.BEk1f0Tf.js"])))=>i.map(i=>d[i]);
+import{t as e}from"../chunks/CRzLMJPS.js";var t={},n=[()=>e(()=>import(`../nodes/0.C9KfiiPz.js`),__vite__mapDeps([0,1,2]),import.meta.url),()=>e(()=>import(`../nodes/1.mOwa9YdW.js`),__vite__mapDeps([3,2,4,5]),import.meta.url),()=>e(()=>import(`../nodes/2.CTzvtF1L.js`),__vite__mapDeps([6,2,7,8,9,1,10,11,12,13,14,15,16,17,18,19]),import.meta.url),()=>e(()=>import(`../nodes/3.CwVaGuXT.js`),__vite__mapDeps([20,9,1,2,7,8]),import.meta.url),()=>e(()=>import(`../nodes/4.BSByaEO3.js`),__vite__mapDeps([21,10,1,2,7,8,11,12,13,14]),import.meta.url),()=>e(()=>import(`../nodes/5.BNCA9inu.js`),__vite__mapDeps([22,15,1,2,7,8,11,12,13,16]),import.meta.url),()=>e(()=>import(`../nodes/6.BEk1f0Tf.js`),__vite__mapDeps([23,17,1,2,7,8,12,13,18]),import.meta.url)],r=[],i={"/kb":[2],"/kb/decisions/0001-dedupe-by-subject":[3],"/kb/incidents/4471":[4],"/kb/incidents/4471/problems":[5],"/kb/triage/dedupe":[6]},a={handleError:(({kind:e,error:t})=>{e===`unknown`&&console.error(t)}),reroute:(()=>{}),transport:{}},o=Object.fromEntries(Object.entries(a.transport).map(([e,t])=>[e,t.decode])),s=Object.fromEntries(Object.entries(a.transport).map(([e,t])=>[e,t.encode])),c=!1,l=(e,t)=>o[e](t),u=()=>e(()=>import(`../chunks/Bjy-W4x2.js`).then(e=>e.default),[],import.meta.url);export{l as decode,o as decoders,i as dictionary,s as encoders,u as get_error_template,c as hash,a as hooks,t as matchers,n as nodes,r as server_loads};

diff --git a/rendered/site/kb/decisions/0001-dedupe-by-subject.html b/rendered/site/kb/decisions/0001-dedupe-by-subject.html
@@ -6,7 +6,7 @@
 		<link href="../../_app/immutable/chunks/B2Ul7l_u.js" rel="modulepreload">
 		<link href="../../_app/immutable/chunks/BCPXOG7W.js" rel="modulepreload">
 		<link href="../../_app/immutable/chunks/Dh1V97Jm.js" rel="modulepreload">
-		<link href="../../_app/immutable/entry/app.pCj8AxUr.js" rel="modulepreload">
+		<link href="../../_app/immutable/entry/app.Cf97Lyos.js" rel="modulepreload">
 		<link href="../../_app/immutable/nodes/0.C9KfiiPz.js" rel="modulepreload">
 		<link href="../../_app/immutable/chunks/DK3Fl9T5.js" rel="modulepreload">
 		<link href="../../_app/immutable/nodes/3.CwVaGuXT.js" rel="modulepreload">
@@ -21,16 +21,16 @@ engineering merges them later.</li></ul><!----></main> <footer class="svelte-e2j
 			
 			<script>
 				{
-					__sveltekit_1bzk7jq = {
+					__sveltekit_c6fpbu = {
 						base: new URL("../..", location).pathname.slice(0, -1),
-						version: "1793239045053"
+						version: "1793239122857"
 					};
 
 					const element = document.currentScript.parentElement;
 
 					import("../../_app/immutable/entry/start.CH5w6lId.js").then(async (kit) => {
-						kit.init(__sveltekit_1bzk7jq);
-						const app = await import("../../_app/immutable/entry/app.pCj8AxUr.js");
+						kit.init(__sveltekit_c6fpbu);
+						const app = await import("../../_app/immutable/entry/app.Cf97Lyos.js");
 						kit.start(app, element, {
 							node_ids: [0, 3],
 							data: [null,null],

diff --git a/rendered/site/kb/incidents/4471.html b/rendered/site/kb/incidents/4471.html
@@ -6,7 +6,7 @@
 		<link href="../../_app/immutable/chunks/B2Ul7l_u.js" rel="modulepreload">
 		<link href="../../_app/immutable/chunks/BCPXOG7W.js" rel="modulepreload">
 		<link href="../../_app/immutable/chunks/Dh1V97Jm.js" rel="modulepreload">
-		<link href="../../_app/immutable/entry/app.pCj8AxUr.js" rel="modulepreload">
+		<link href="../../_app/immutable/entry/app.Cf97Lyos.js" rel="modulepreload">
 		<link href="../../_app/immutable/nodes/0.C9KfiiPz.js" rel="modulepreload">
 		<link href="../../_app/immutable/chunks/DK3Fl9T5.js" rel="modulepreload">
 		<link href="../../_app/immutable/nodes/4.BSByaEO3.js" rel="modulepreload">
@@ -24,16 +24,16 @@ first. The fix is queued.</p> <aside class="note svelte-17bri61"><!---->Known. O
 			
 			<script>
 				{
-					__sveltekit_1bzk7jq = {
+					__sveltekit_c6fpbu = {
 						base: new URL("../..", location).pathname.slice(0, -1),
-						version: "1793239045053"
+						version: "1793239122857"
 					};
 
 					const element = document.currentScript.parentElement;
 
 					import("../../_app/immutable/entry/start.CH5w6lId.js").then(async (kit) => {
-						kit.init(__sveltekit_1bzk7jq);
-						const app = await import("../../_app/immutable/entry/app.pCj8AxUr.js");
+						kit.init(__sveltekit_c6fpbu);
+						const app = await import("../../_app/immutable/entry/app.Cf97Lyos.js");
 						kit.start(app, element, {
 							node_ids: [0, 4],
 							data: [null,null],

diff --git a/rendered/site/kb/triage/dedupe.html b/rendered/site/kb/triage/dedupe.html
@@ -6,7 +6,7 @@
 		<link href="../../_app/immutable/chunks/B2Ul7l_u.js" rel="modulepreload">
 		<link href="../../_app/immutable/chunks/BCPXOG7W.js" rel="modulepreload">
 		<link href="../../_app/immutable/chunks/Dh1V97Jm.js" rel="modulepreload">
-		<link href="../../_app/immutable/entry/app.pCj8AxUr.js" rel="modulepreload">
+		<link href="../../_app/immutable/entry/app.Cf97Lyos.js" rel="modulepreload">
 		<link href="../../_app/immutable/nodes/0.C9KfiiPz.js" rel="modulepreload">
 		<link href="../../_app/immutable/chunks/DK3Fl9T5.js" rel="modulepreload">
 		<link href="../../_app/immutable/nodes/6.BEk1f0Tf.js" rel="modulepreload">
@@ -24,16 +24,16 @@ anything else.<!----></aside><!----> <h2>Try it</h2> <div class="try svelte-gq0h
 			
 			<script>
 				{
-					__sveltekit_1bzk7jq = {
+					__sveltekit_c6fpbu = {
 						base: new URL("../..", location).pathname.slice(0, -1),
-						version: "1793239045053"
+						version: "1793239122857"
 					};
 
 					const element = document.currentScript.parentElement;
 
 					import("../../_app/immutable/entry/start.CH5w6lId.js").then(async (kit) => {
-						kit.init(__sveltekit_1bzk7jq);
-						const app = await import("../../_app/immutable/entry/app.pCj8AxUr.js");
+						kit.init(__sveltekit_c6fpbu);
+						const app = await import("../../_app/immutable/entry/app.Cf97Lyos.js");
 						kit.start(app, element, {
 							node_ids: [0, 6],
 							data: [null,null],

diff --git a/rendered/site/_app/immutable/nodes/5.BNCA9inu.js b/rendered/site/_app/immutable/nodes/5.BNCA9inu.js
@@ -1,0 +1,1 @@
+export{n as component}from"../chunks/CG9Gs7nx.js";
